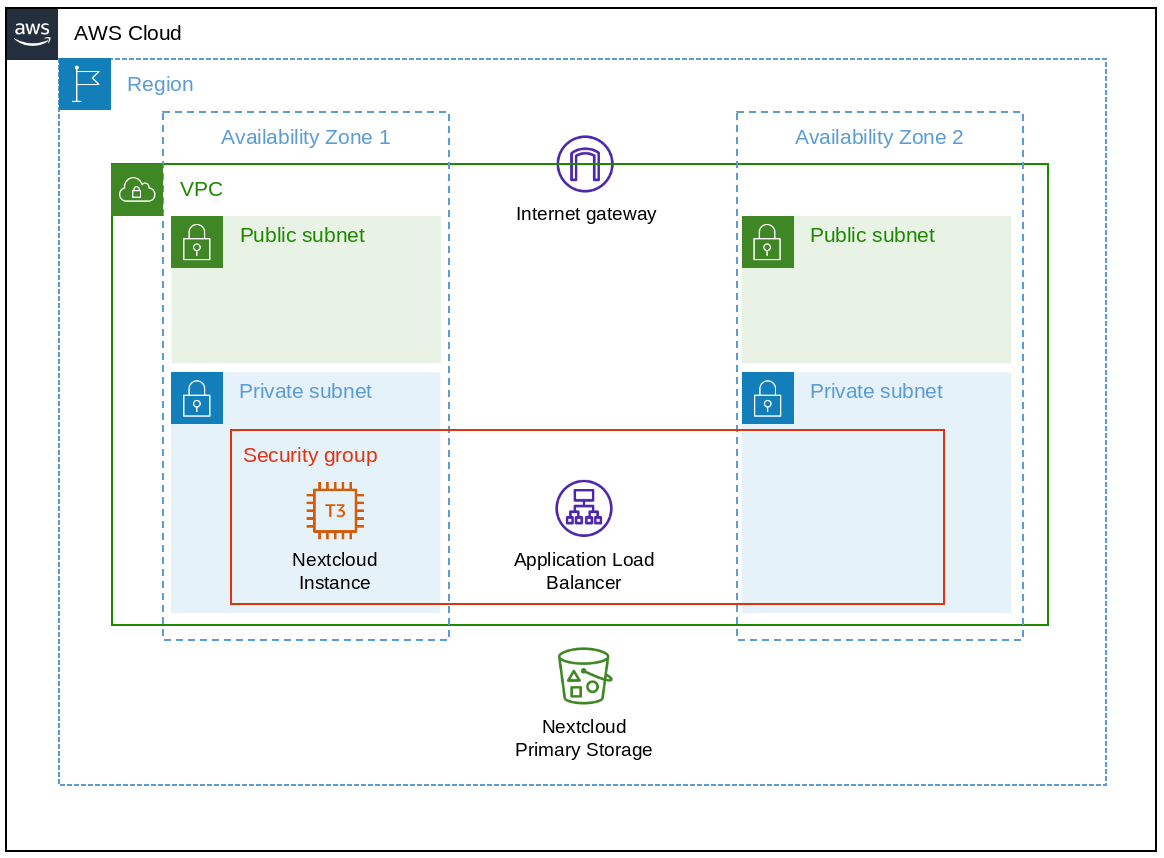
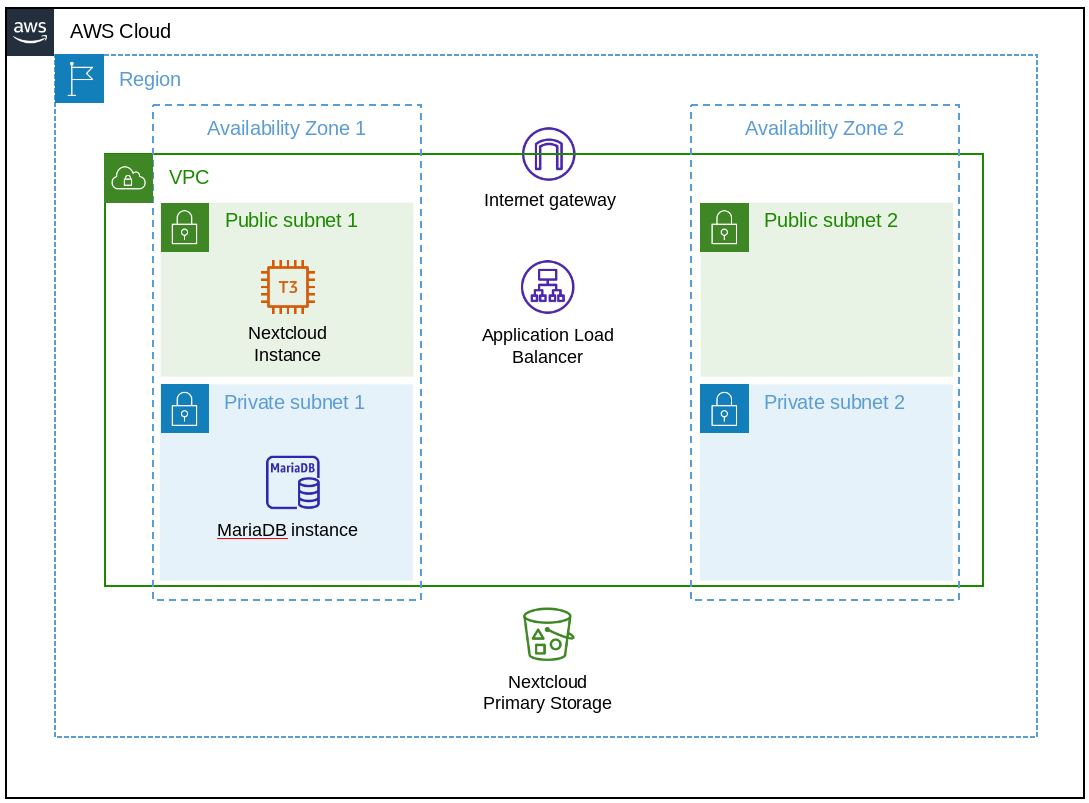
RDS for MariaDB

diff --git a/README.md b/README.md
@@ -4,8 +4,6 @@
 
 - Web-traffic and ssl connection to Nextcloud is handled by an
   `Application Load Balancer`, which needs two configured `Availability Zones`.
-- Nextcloud `EC2 Instance` has direct internet access to load applications and
-  updates. (Better solution includes `NAT Gateway` in `Public Subnet`.)
 - Primary storage for Nextcloud is an encrypted `S3 Bucket` that is
   automatically created by terraform.
 - Nextcloud also uses encryption while storing files.
@@ -33,6 +31,8 @@ admin_user = ""
 admin_pass = ""
 default_user = ""
 default_user_pass = ""
+mariadb_user = ""
+mariadb_pass = ""
 ```
 
 - `route53_zone` excepts an `arn` of a hosted zone by `Route 53`.
